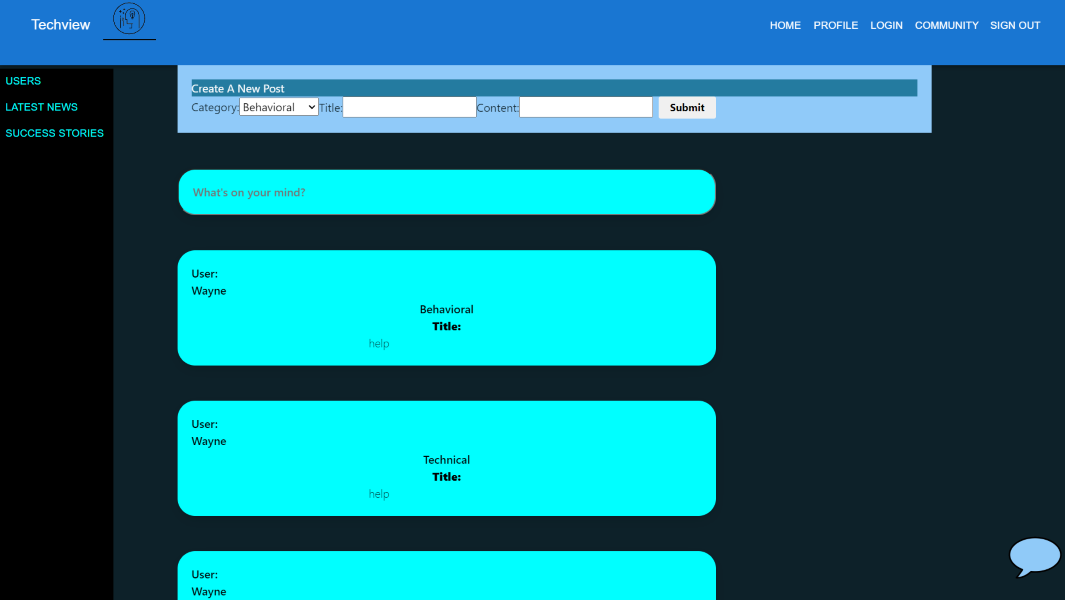
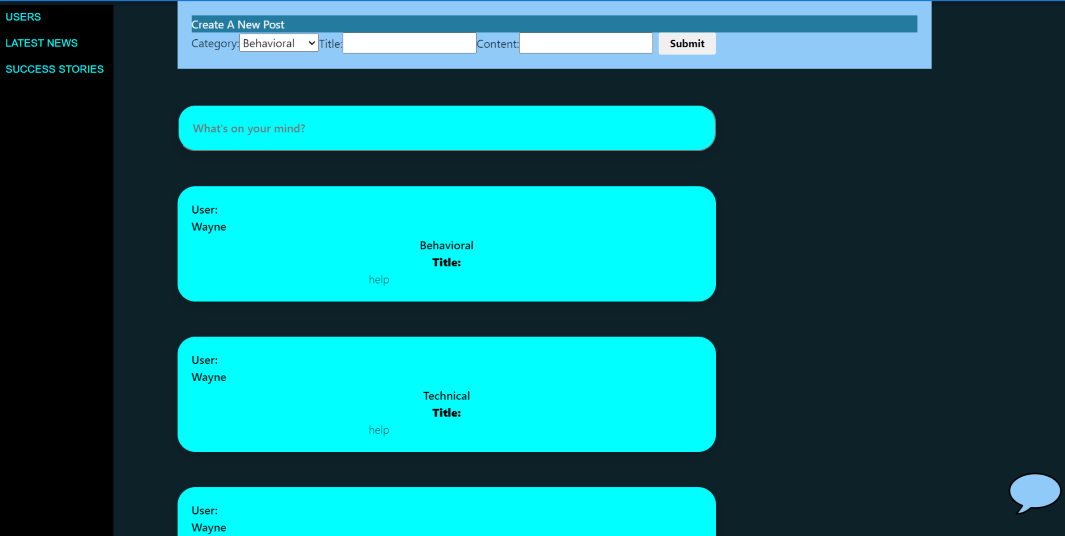
feat:main page refactored

diff --git a/tech-view/src/components/Navbar.js b/tech-view/src/components/Navbar.js
@@ -40,9 +40,9 @@ export default function Navbar () {
           <Button color='inherit' onClick={() => { navigate('/Profile') }}>Profile</Button>
           <Button color='inherit' onClick={() => { navigate('/login') }}>Login</Button>
     
-          <Button color='inherit' onClick={() => { navigate('/Community') }}>Community</Button>
+       
           
-          <Button color='inherit' onClick={() => { navigate('/signup') }}>Sign Out</Button>
+          <Button color='inherit' onClick={() => { navigate('/signup') }}>Sign Up</Button>
         </Toolbar>
       </AppBar>
     </Box>

diff --git a/tech-view/src/components/profilePage/Profile.js b/tech-view/src/components/profilePage/Profile.js
@@ -10,8 +10,8 @@ export default function Profile() {
         <Navbar/>
             <div className="card">
                 <img src={img} alt="Profile picture" style={{width:"100%"}}/>
-                <h1 className="username">{ localStorage.user }</h1>
-                <p className="email">{ localStorage.email }</p>
+                <h1 className="username">Wayne</h1>
+                <p className="email">world@gmail.com</p>
                 <button>Change email</button>
             </div>
             <Footer/>

diff --git a/tech-view/src/components/mainPageWithLogin/post.js b/tech-view/src/components/mainPageWithLogin/post.js
@@ -3,7 +3,7 @@ import React, { Component ,useState} from 'react';
 // import useModal from './useModal';
 import Modal from './modal';
 
-const categories = ['Behavioral', 'LeetCode 75', 'Technical', 'Other'];
+const categories = ['Behavioral', 'LeetCode 75', 'Technical'];
 // const [isShowing, setIsShowing] = useState(false);
 
 // function toggle() {

diff --git a/tech-view/src/components/SideBar.js b/tech-view/src/components/SideBar.js
@@ -12,12 +12,13 @@ function SideBar () {
     position: 'fixed',
     marginLeft: "0px",
     zIndex: -1,
-    top: 115,
+    top: -200,
     left: 0,
+    paddingTop:350,
     backgroundColor: 'black',
     color:"aqua",
-    overflowX: 'hidden',
-    paddingTop: '885'
+    overflowX: 'hidden'
+    
   }
 
   const sideBarItemStyling = {

diff --git a/tech-view/src/components/Login.js b/tech-view/src/components/Login.js
@@ -53,7 +53,7 @@ export default function SignInSide () {
           window.localStorage.setItem('email', data)
           window.localStorage.setItem('password', data)
           window.localStorage.setItem('badge', data)
-          navigate('/mainpage')
+          navigate('/')
         }
       })
   }
